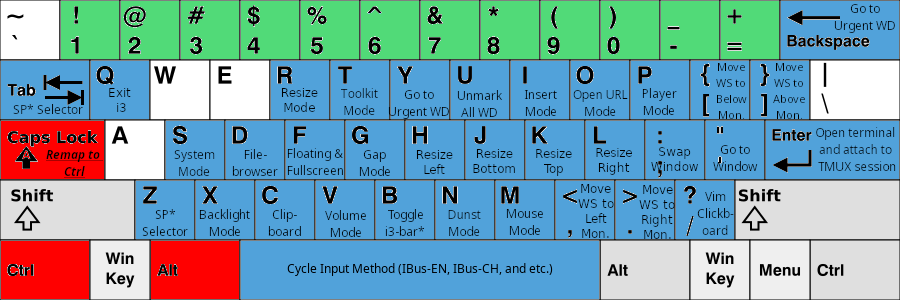
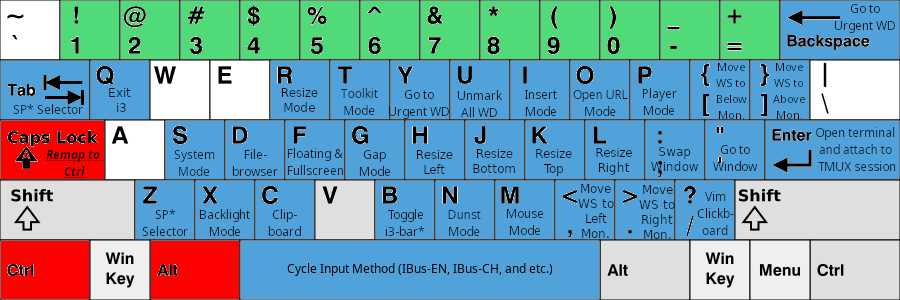
update:update_microphone_mode

Changed region(s): [[0.3422, 0.6, 0.4356, 0.81]]

diff --git a/README.md b/README.md
@@ -283,12 +283,14 @@ Note: the term "window" used in this configuration actually refers to "container
 
 - __Player Mode (`[Ctrl]` + `[Alt]` + `[p]`)__
     - Player control (e.g. previous, pause-play, next, fast-forward, rewind, stop) for spt (spotify TUI front-end), MPV, VLC, and all MPRIS players
+        - __Volume Mode (`[v]`)__
+            - Volume control with pulsemixer (e.g. volume up/down, mute)
+        - __Micrphone Mode__ (`[m]`)
+            - Microphone usage (e.g. recording)
         - __Spotifyd Mode (`[s]`)__
             - Spotifyd control (e.g. enable, disable, reload) for spotifyd
-        - __MPV Mode (`[m]`)__
+        - __MPV Mode (`[Shift]`+`[m]`)__
             - MPV function (e.g. playlist)
-- __Volume Mode (`[Ctrl]` + `[Alt]` + `[v]`)__
-    - Volume control with pulsemixer (e.g. volume up/down, mute)
 
 </details>
 
